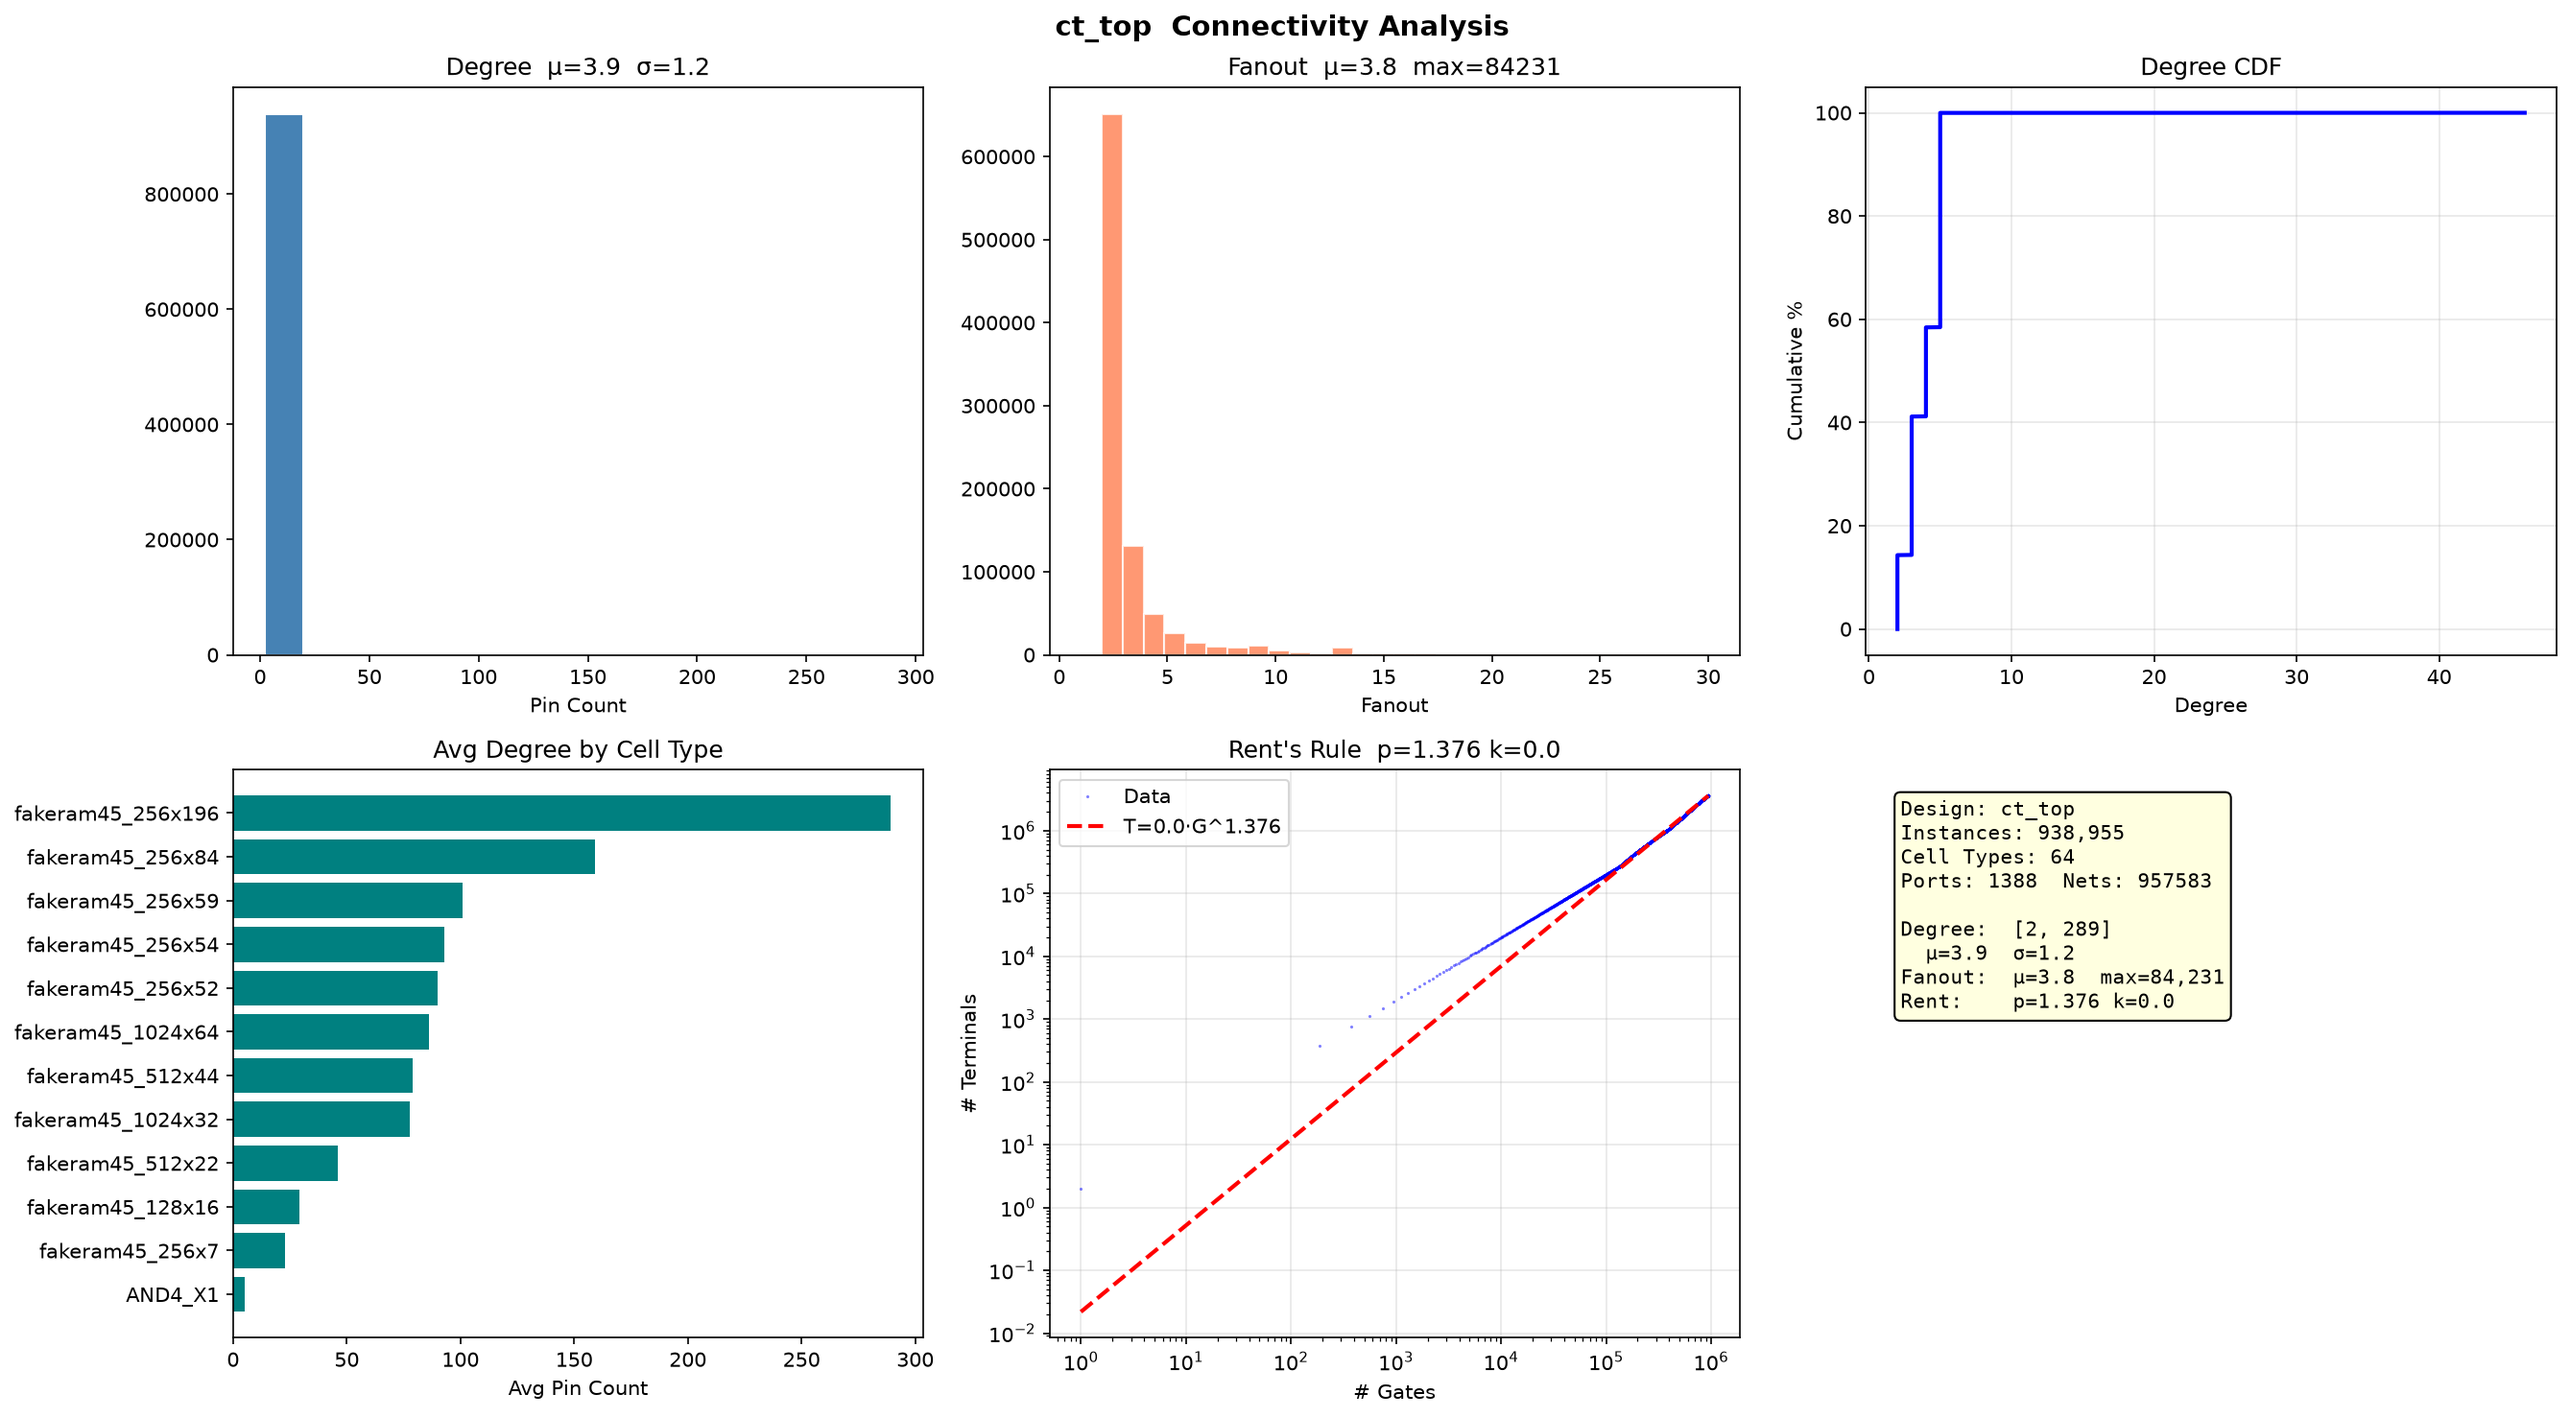
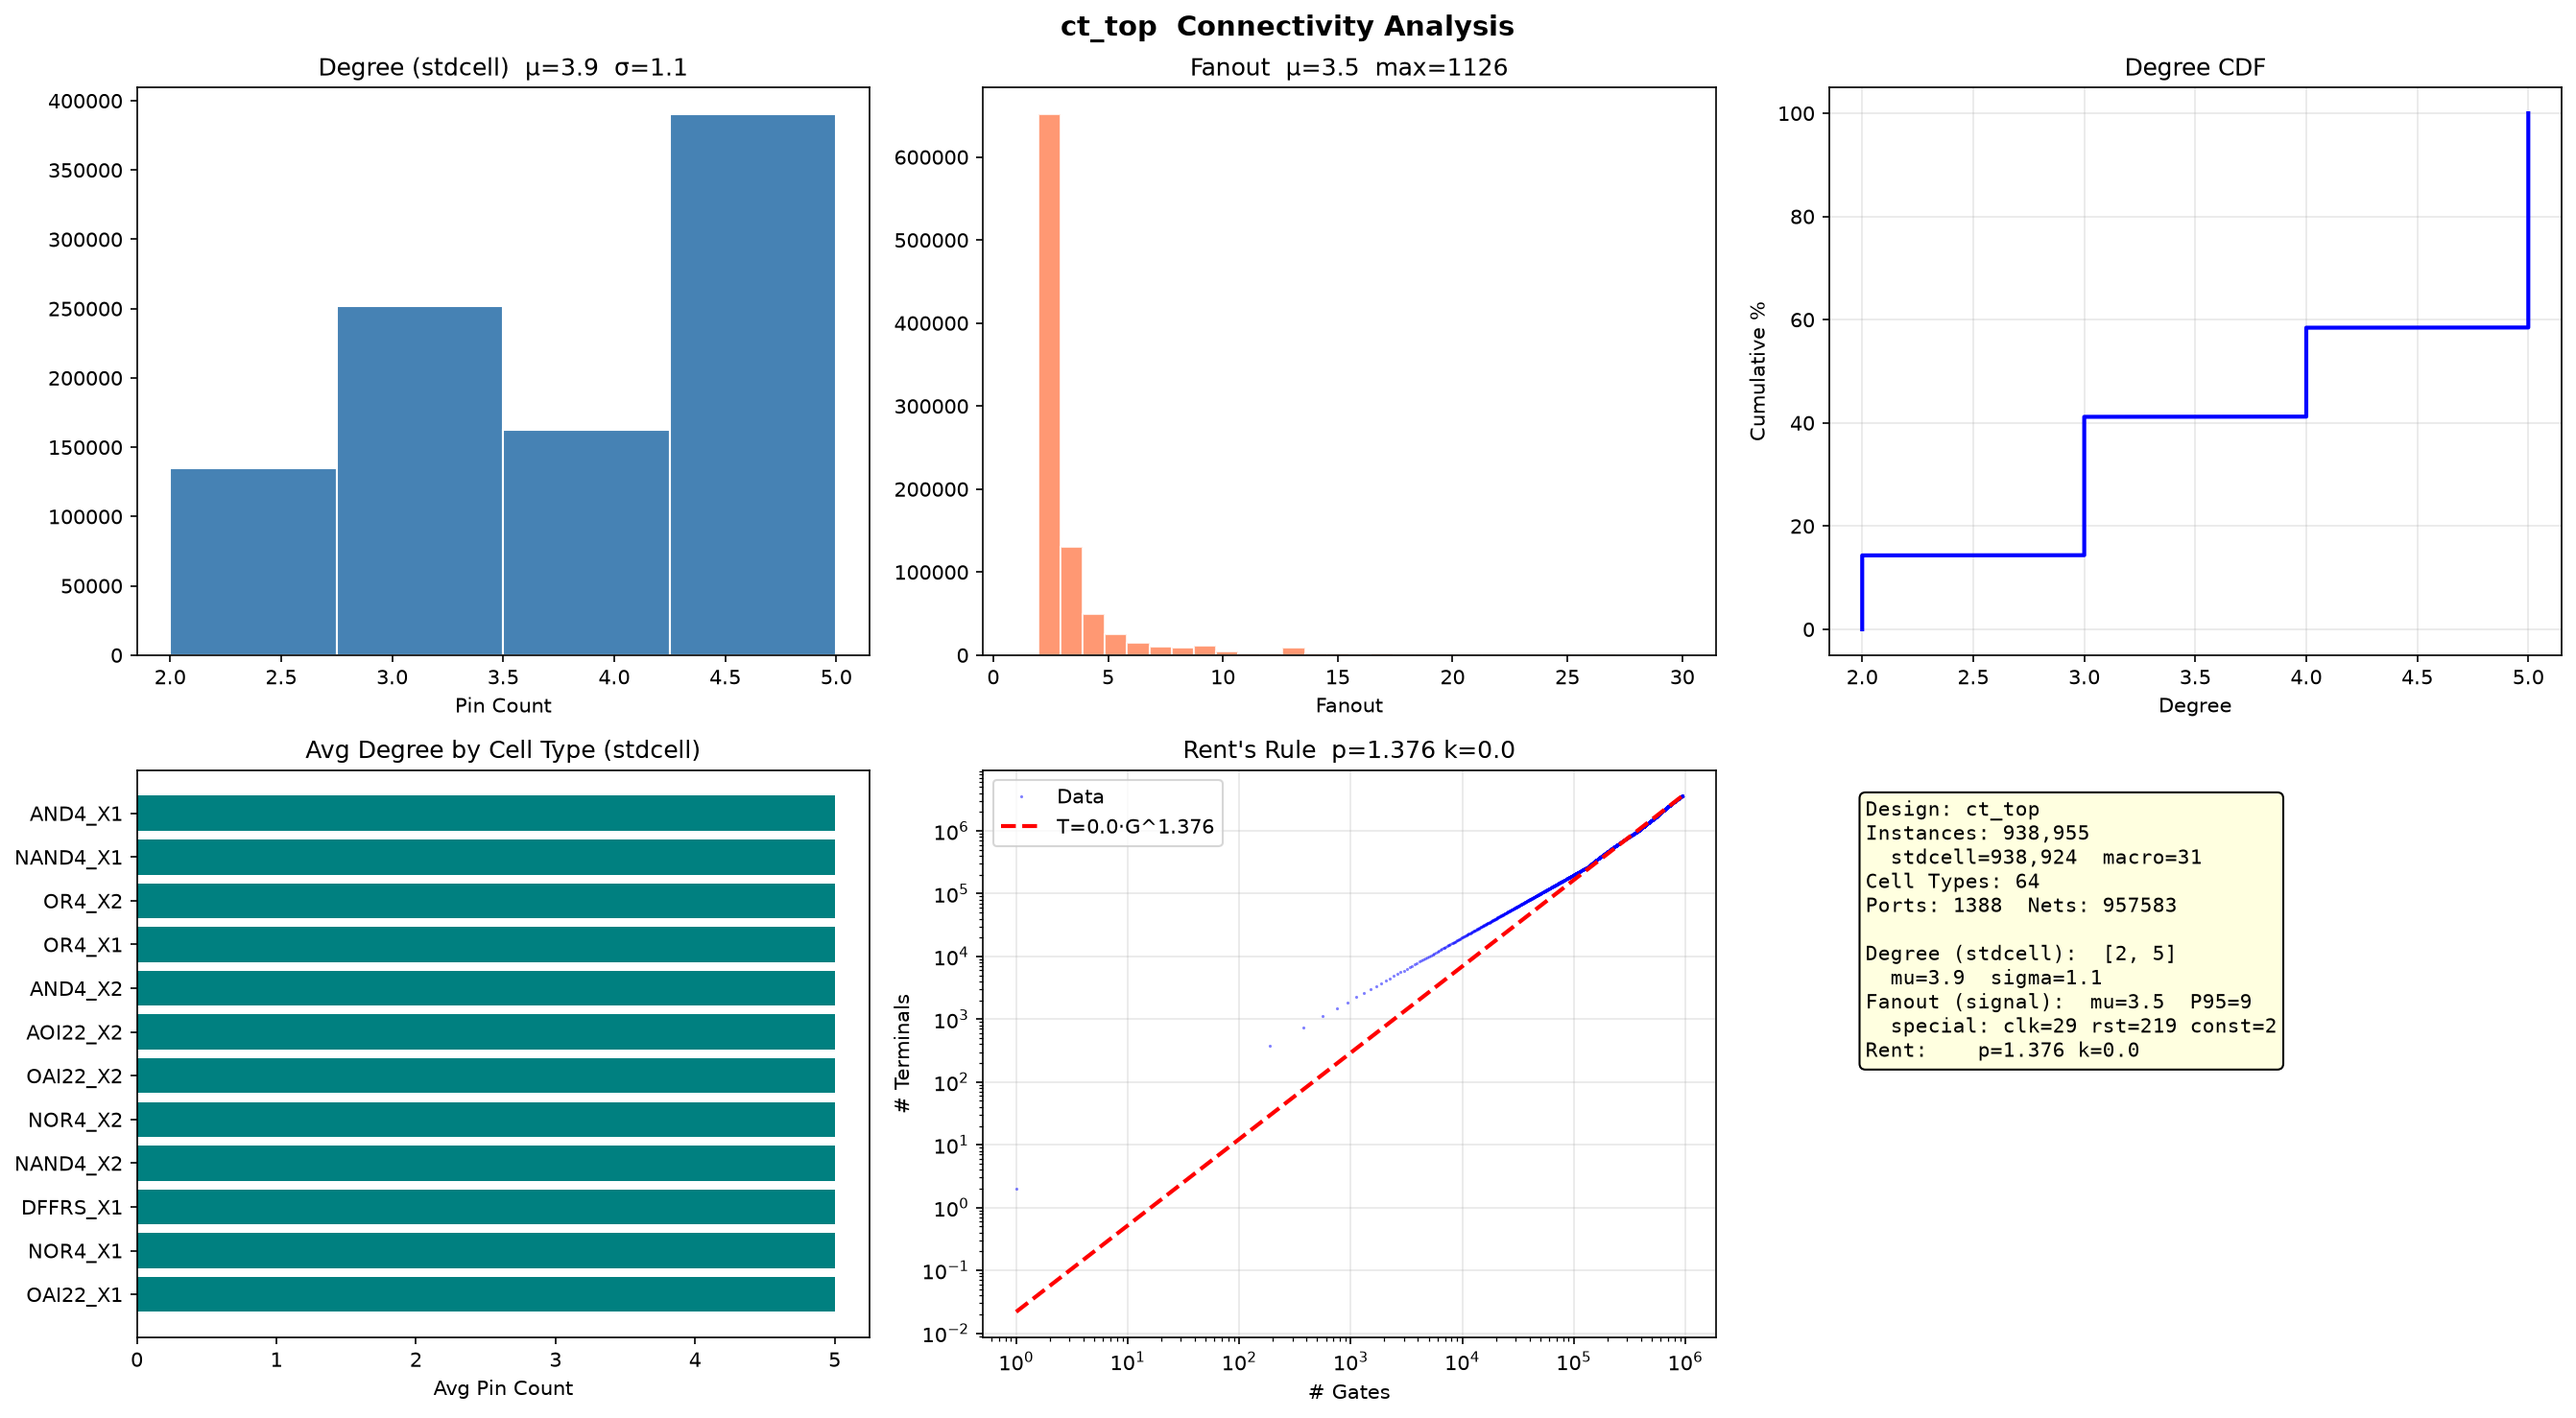
openc910: regenerate with macro/special-net separation (31 SRAM, 250 special nets)

diff --git a/results/openc910/openc910_report.md b/results/openc910/openc910_report.md
@@ -17,10 +17,37 @@
 
 | 指标 | 数值 |
 |------|------|
-| Degree 均值 | 3.9 (σ=1.2) |
-| Degree 范围 | 2–289 |
-| Fanout 均值 | 3.8 (P95=9) |
-| 高扇出线 (FO>1000) | — |
+| Degree 均值（标准单元） | 3.9 (σ=1.1) |
+| Degree 范围（标准单元） | 2–5 |
+| Fanout 均值（信号网） | 3.5 (P95=9) |
+| Fanout 最大（信号网） | 1,126 |
+
+## 宏单元（SRAM/ROM/regfile/pad）
+
+> 31 个宏单元，11 种类型，构成 C910 的 cache / regfile。
+
+| 类型 | 数量 | 平均 Degree |
+|------|-----:|-----------:|
+| fakeram45_1024x32 | 18 | 78 |
+| fakeram45_512x44 | 2 | 79 |
+| fakeram45_256x84 | 2 | 159 |
+| fakeram45_256x196 | 1 | 289 |
+| fakeram45_256x59 | 1 | 101 |
+| ... | ... | ... |
+
+## 特殊网（时钟/复位/常量）
+
+> 250 条特殊网，单独分析，不计入 Fanout 统计。
+
+| 类型 | 网名 | Fanout |
+|------|------|-------:|
+| clock | coreclk | 84,231 |
+| constant | LOGICAL_1 | 74,177 |
+| reset | mmu_rst_b | 72,840 |
+| clock | pll_core_clk | 3,108 |
+| clock | ...gateclk_sel（时钟门控） | 99–694 |
+
+> 含 29 条时钟网（含大量 gateclk 时钟门控选择信号）、219 条复位网、2 条常量网。
 
 ## Rent's Rule
 
@@ -34,6 +61,8 @@
 ## 设计特征
 
 - **高性能 RISC-V**：94 万门、64 种单元，比 Ariane133（8.4 万门）大 10 倍
-- **σ=1.2**：均质标准单元设计，无大型宏单元，与 superblue1（σ=4.7）形成鲜明对比
-- **Rent p=1.376**：与 Ariane133（1.377）几乎一致——不同规模、不同工艺的 RISC-V 核心具有相同的拓扑复杂度
-- **Fanout 大**：max 84,231，复杂时钟树/复位网络
+- **标准单元度干净**：σ=1.1、范围 2–5，去掉宏单元后是均质设计
+- **31 个 SRAM 宏**：cache + regfile，fakeram45_256x196 最大（degree≈289）
+- **时钟门控密集**：29 条时钟网，大量 gateclk_sel 信号，体现低功耗设计
+- **Rent p=1.376**：与 Ariane133（1.377）几乎一致——不同规模的 RISC-V 核心拓扑复杂度相同
+- **信号网扇出**：P95=9，最大 1,126，正常范围
